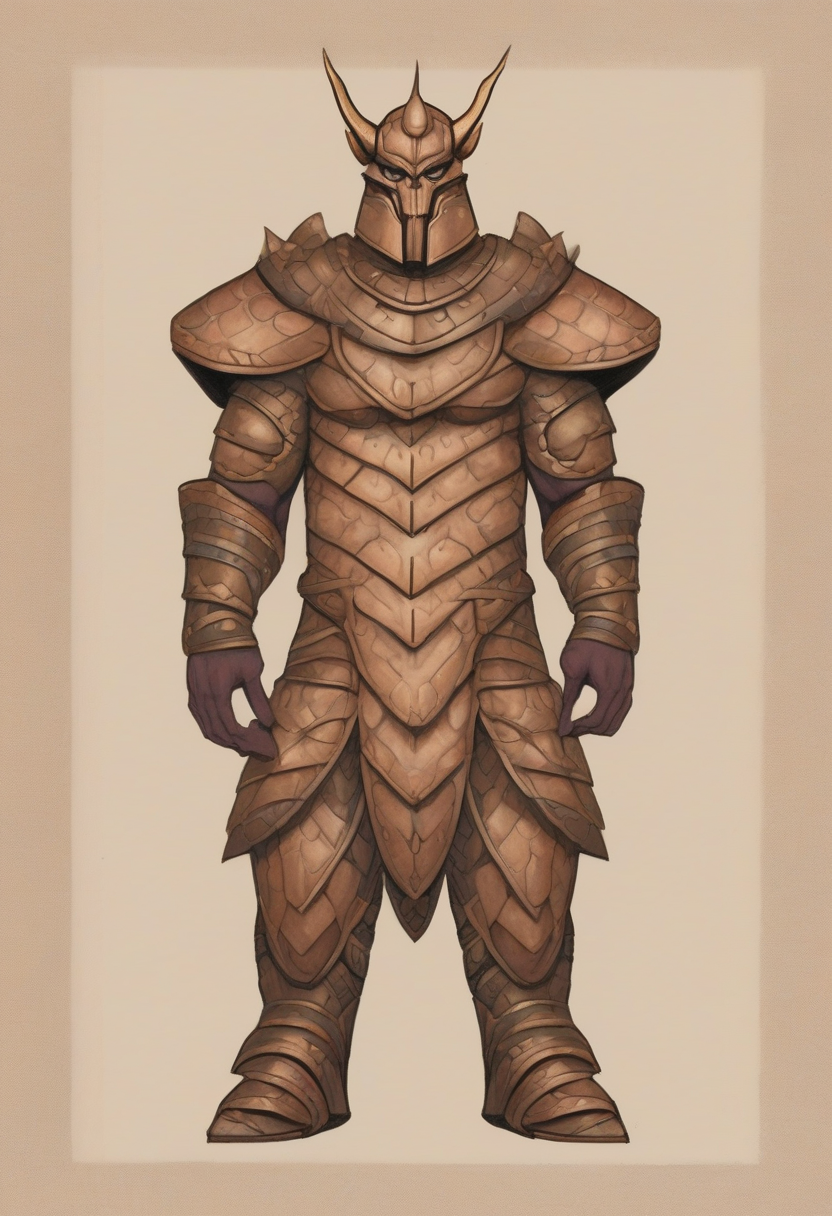
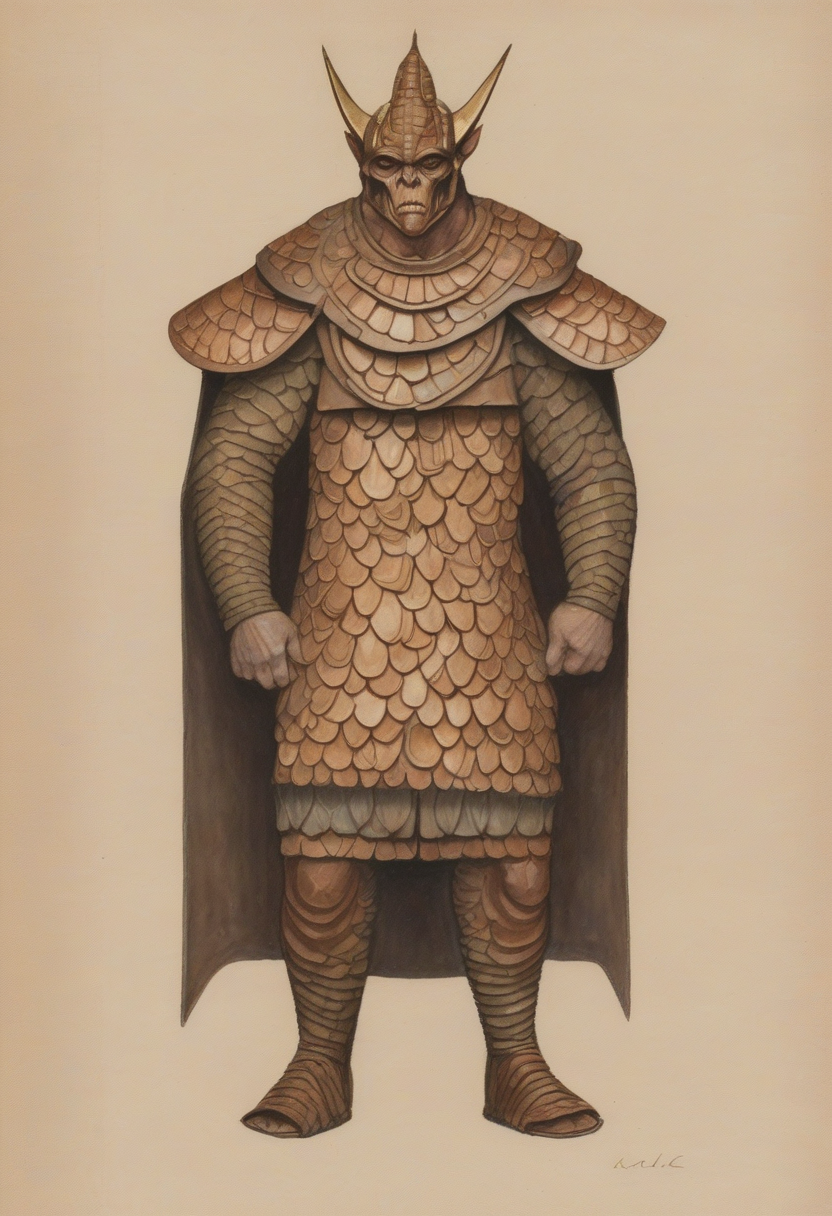
feat(canon): 어린갑이 서술로 나왔다 — 용어가 아니라 「무엇으로 이루어지고 어떤 모양인지」였다
사용자 지적으로 §9-15의 「비늘 클래스를 프롬프트로 만들 수 없다」가 뒤집혔다. 지금까지의 실패는
전부 용어 교체였다(PROMPTING.md 8의 6종 · 라운드 14의 3종). 다른 조건을 고정하고 갑주 서술만
바꿔 3시드씩 뽑으니 용어 0/3 ↔ 서술 2/3으로 갈렸다.

새 규칙도 나왔다: 직유는 배경으로 샌다 — "like roof tiles"·"like a pinecone"을 뒤에 달았더니
기와와 솔방울이 갑주가 아니라 장면의 배경 오브젝트로 그려졌다. 성립한 문구는 구조 서술이 주이고
직유가 종속이다.

토큰 예산 때문에 두 군데를 줄였다: SAMPLE_STYLE에서 "simple, clean background"(배경 억제는
부정 프롬프트가 이미 진다), 꼬리의 "front view"("facing forward"와 중복). 92/77 → 75/77.

그리고 무레퍼런스에서도 비늘이 나온다 — 「이미지 앵커가 유일한 손잡이」라는 전제도 무너졌다.
다만 앵커가 없으면 인물이 오크/괴물로 가고, 그것을 축 E가 잡았다(5장 중 3장 탈락 — 라운드 11에서
고친 축의 독립 확인). 그래서 비늘은 서술이, 사람·청동은 구간 안 앵커가 담당하게 나눴다.

채택: desc-f55-s23(ink .3207). 장면 합성 축 E까지 통과하는 후보만 남겨 골랐다. 축 B 임계
재파생 +0.0729 == 귀무최대 · 음성 0/12 · 양성 6/6. 여섯 축 전부 machine_gate_ready.
구 표본은 goliath-term-plate.png로 보존 — 같은 파이프라인에서 문구만 다른 「비늘↔판금」 짝이라,
§9-15가 「만들 수 없다」고 적은 종류 축의 대조군이 처음으로 성립한다.

Claude-Session: https://claude.ai/code/session_01HDXbUvQf5yd3GroDjvmvYw

Changed region(s): [[0.1875, 0.0312, 0.8125, 0.9688], [0.5938, 0.0312, 0.625, 0.0625]]

diff --git a/scripts/canon/derive_prompts.py b/scripts/canon/derive_prompts.py
@@ -244,7 +244,10 @@ def _drop(style, *phrases):
     return ", ".join(kept) + tail
 
 
-SAMPLE_STYLE = _drop(STYLE, "light shading", "muted palette")
+# 2026-08-29: `"simple", "clean background"`도 뺀다 — 서술적 갑주 문구가 77토큰을 넘겨
+# **뒤가 조용히 잘리기** 때문이고, 배경 억제는 이미 부정 프롬프트가 진다
+# (`SAMPLE_NEG`의 "cluttered background" · `SAMPLE_NEG_EXTRA`의 "landscape, scenery").
+SAMPLE_STYLE = _drop(STYLE, "light shading", "muted palette", "simple", "clean background")
 SAMPLE_NEG = _drop(NEG, "dark", "heavy shadows")
 
 # 표본 전용 추가 부정어 — 2026-08-26 실측이 낳은 것이다. 표본은 **레퍼런스 이미지가 아니라
@@ -287,7 +290,14 @@ SAMPLE_COSTUME = {
     # 맨 앞 배치 / wearing 결속 / 「scale」을 버리고 "rows of overlapping round bronze plates").
     # 마지막 것은 **갑옷을 아예 없앴다** — "armor"라는 낱말이 최소한 옷의 존재는 지키고 있었다.
     # 남은 손잡이는 **이미지 앵커**다(사용자 제공 비늘갑옷 참고 이미지 → `gen_setup_sheet.py --ref`).
-    "goliath": "in barbaric bronze scale armor",
+    # 2026-08-29 **사용자 지적으로 뒤집힌 자리**: 지금까지의 실패는 전부 **용어 교체**였다
+    # (PROMPTING.md 8의 6종 · 라운드 14의 3종 — "scale armor"·"scale mail"·"fish-scale" 등).
+    # 모델이 그 낱말을 모른다면 낱말을 바꾸는 것은 무효다. **무엇으로 이루어졌고 어떤 모양인지**
+    # 풀어 쓰자 비늘이 실제로 나왔다(ZIMAGE §9-16 실측: 용어 0/3 ↔ 서술 2/3).
+    # ⚠ 직유는 **주어에 결속**해야 한다 — "like roof tiles"·"like a pinecone"을 뒤에 달았더니
+    #   기와와 솔방울이 **배경 풍경으로** 그려졌다(직유 대상이 장면으로 샌다).
+    "goliath": "in a coat of small overlapping bronze plates in rows, like fish scales",
+
 }
 
 # 부정어도 인물별로 갈린다 — 표본은 **중립**이어야 하므로 각 인물이 실제로 끌어들이는 것을 막는다.
@@ -328,7 +338,7 @@ def sample_prompt(name):
     # 캔버스는 params.SAMPLE_SIZE(세로)로 옮겼고, 여기서는 "head to toe"로 잘림을,
     # "front view"로 3/4 회전을 막는다. 배경은 부정어 쪽에서 죽인다(아래 SAMPLE_NEG_EXTRA).
     prompt = (f"{SAMPLE_STYLE} full body of {art} {body} {SAMPLE_COSTUME[name]}, "
-              f"standing alone, front view, facing forward, head to toe.")
+              f"standing alone, facing forward, head to toe.")   # "front view"는 "facing forward"와 중복이라 뺐다(2026-08-29, 토큰 확보)
     neg = ", ".join([SAMPLE_NEG, SAMPLE_NEG_EXTRA, SAMPLE_NEG_BY_NAME[name]]
                     + [v[1] for v in en.values() if v[1]])
     return prompt, neg

diff --git a/scripts/canon/notes/ZIMAGE.md b/scripts/canon/notes/ZIMAGE.md
@@ -983,3 +983,57 @@ CLIP 이미지 유사도가 갑주 종류가 아니라 **전반적 그림 유사
 세 기제 전부 실패했고, 그중 ②는 **대조군을 만드는 것 자체가 막힌다**는 더 강한 결론이다.
 갑주 **종류**의 판정은 이 파이프라인에서 기계 축으로 세울 수 없다 — 남은 정직한 자리는
 C5에 **사람 확인 항목으로 되살리는 것**이고, 그 선택은 사람의 것이다.
+
+### 9-16. **사용자 지적이 §9-15를 뒤집었다 — 낱말이 아니라 서술이었다** (2026-08-29 라운드 16)
+
+§9-15는 「비늘 클래스를 프롬프트로 만들 수 없다」고 적었다. **그 결론은 과했다.** 사용자가
+지적했다: *「프롬프트를 더 자세히 쓰면 되지 않나 — 비늘이 무엇으로 이루어지고 모양이 어떠한지」*.
+
+되짚어 보니 지금까지의 실패는 **전부 용어 교체**였다 — `PROMPTING.md 8`의 6종("scale armor"·
+"scale mail"·"fish-scale"…), 라운드 14의 3종도 마찬가지다. 모델이 그 낱말을 모른다면 낱말을
+바꾸는 것은 무효이고, **재질·단위 모양·크기·겹침 방향·배열**로 풀어 쓰는 것은 한 번도 시도한
+적이 없었다.
+
+    다른 조건 전부 고정(화풍·인물 문구·무레퍼런스·CN·시드), 갑주 서술만 교체 · 3시드씩
+    desc0 용어  "wearing overlapping bronze scale armor"        →  비늘 0/3 (판금 기사)
+    desc1 기와  "…like roof tiles, in neat horizontal rows"      →  **기와가 배경 풍경으로 그려졌다**
+    desc2 물고기 "rows of small bronze plates sewn on leather,
+                 like fish scales, each rounded at the bottom"   →  **비늘 2/3 — 성립**
+    desc3 솔방울 "…pebbled like a pinecone"                       →  **솔방울이 배경으로 그려졌다**
+
+**새 규칙 — 직유는 새는다.** "like roof tiles"·"like a pinecone"을 뒤에 달았더니 그 사물이
+**갑주가 아니라 장면의 배경 오브젝트로** 그려졌다. 성립한 desc2는 구조 서술(작은 판 · 줄 ·
+가죽에 꿰맴 · 아래로 겹침)이 **주**이고 직유가 종속이다. 직유를 쓰려면 주어에 결속하고 구조
+서술 뒤에 둔다.
+
+#### 토큰 예산이 걸림돌이었다 — 두 군데서 자리를 만들었다
+
+서술형 문구는 `sample_prompt`를 92/77로 넘겼고, 넘치면 **뒤가 조용히 잘린다**(규칙 1). 그래서:
+`SAMPLE_STYLE`에서 `"simple", "clean background"`를 뺐고(배경 억제는 이미 부정 프롬프트가 진다 —
+`SAMPLE_NEG`의 "cluttered background" · `SAMPLE_NEG_EXTRA`의 "landscape, scenery"), 꼬리의
+`"front view"`를 뺐다(`"facing forward"`와 같은 지시의 중복). 결과 75/77.
+
+#### 앵커 없이도 비늘이 나온다 — 그러나 인물이 괴물로 간다
+
+`--no-ref` 5시드: **비늘이 나온다**(s3·s42는 몸통·치마가 명백한 겹친 비늘). 즉 「어린갑은 이미지
+앵커가 유일한 손잡이」라는 `SAMPLES.md`의 전제도 무너진다 — 그 앵커가 반사실 화풍의 원인이었으므로
+큰 수확이다. 그런데 **인물이 오크/괴물로 갔다**(초록빛 피부·엄니·짐승 얼굴·발톱). 앵커가 사라지자
+「거인 전사 + 비늘」이 판타지 몬스터 사전지식을 끌어온 것이다.
+
+**그리고 축 E가 그것을 잡았다** — 무레퍼런스 5장 중 3장이 축 E에서 떨어졌다(s3 −0.0103 ·
+s7 −0.0197 · s42 −0.0265). 라운드 11에서 고친 축이 실제 판별력을 가진다는 독립 확인이다.
+
+#### 채택 — 서술 + 구간 안 앵커, 그리고 기계로 먼저 걸렀다
+
+비늘은 **서술**이 담당하고 앵커(`ref-scale-onpaper-f55`, ink .1213)는 **사람·청동**만 붙든다.
+5시드 중 **장면 합성 축 E**까지 통과하는 것은 s23·s7뿐이었고(s3은 새 투구 면갑이 장면 규모에서
+수염으로 읽혀 beard −0.0630), s7은 배경 아티팩트·발톱이 있어 **s23**을 골랐다.
+
+    신 표본 ink .3207 · 축 B 임계 재파생 +0.0729 == 귀무최대 · 음성 0/12 · 양성 6/6
+    축 E 양성 **8/8** · 여섯 축 전부 machine_gate_ready
+
+#### 부수 소득 — 종류 축의 대조군이 처음으로 성립한다
+
+구 표본(용어 프롬프트 → 셰브론 판금)을 `samples/goliath-term-plate.png`로 보존했다. 이제
+**같은 파이프라인·같은 인물·같은 앵커에서 문구만 다른 「비늘 ↔ 판금」 짝**이 있다 — §9-15가
+「만들 수 없다」고 적은 그 대조군이다. 종류 축을 다시 시도할 근거가 생겼다(사람의 결정).
